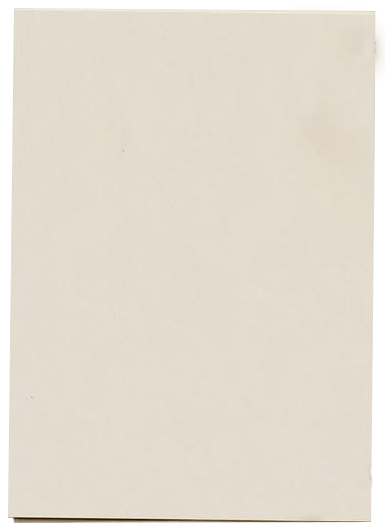
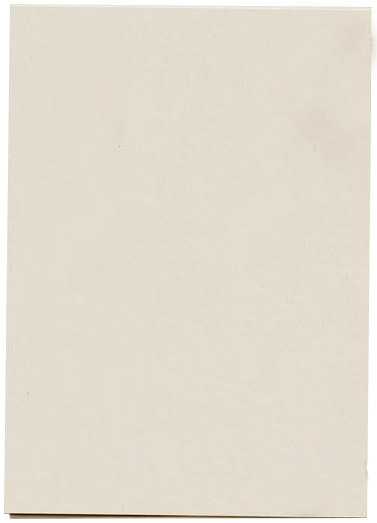
사진 변경

Changed region(s): [[0.0, 0.0, 0.992, 1.0]]

diff --git a/site.css b/site.css
@@ -426,7 +426,7 @@ img{ max-width: 100%; display: block; filter: grayscale(100%); }
   top: calc(10% + 15px);
   right: 20px;
   width: var(--w);
-  aspect-ratio: 385 / 531;   /* 원본 이미지(assets/side-memo.png) 비율 유지 */
+  aspect-ratio: 377 / 523;   /* 원본 이미지(assets/side-memo.png) 비율 유지 — 여백 없이 다시 자른 사진에 맞춤 */
   overflow: hidden;   /* 폭이 0에 가까워지면(화면이 좁아지면) 카드+세로 글씨가 함께 사라지도록 */
   z-index: 4;   /* .ring(6)보다 아래에 둬서 링이 카드 위로 겹쳐 보이게 함 */
 }
